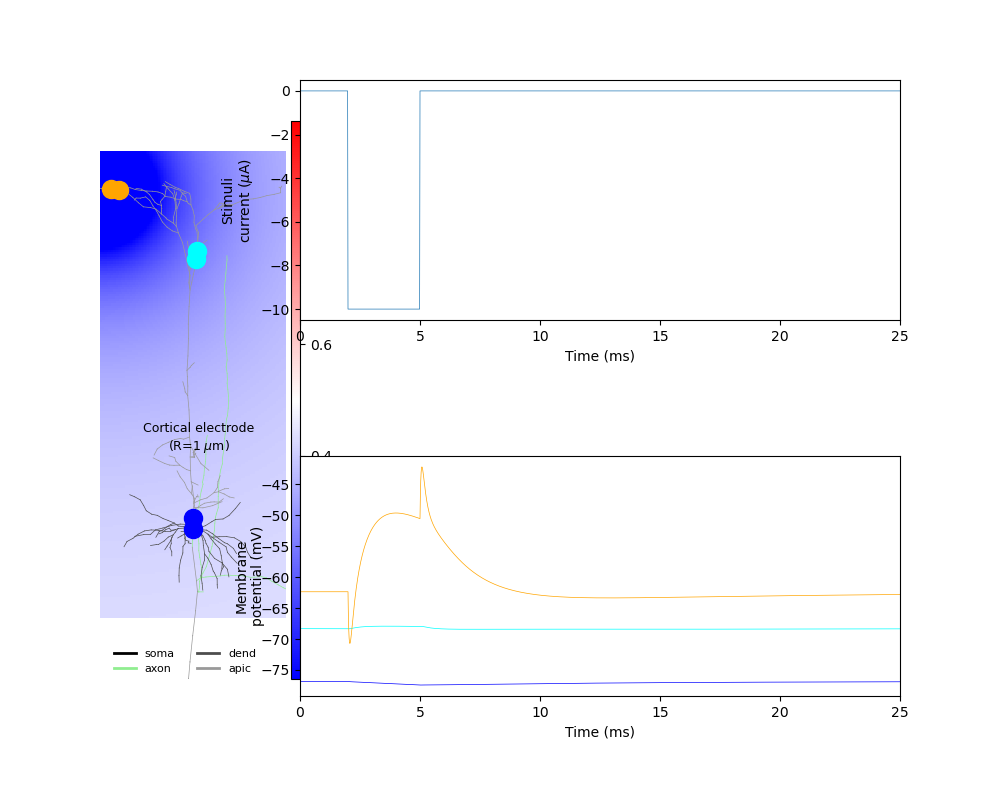
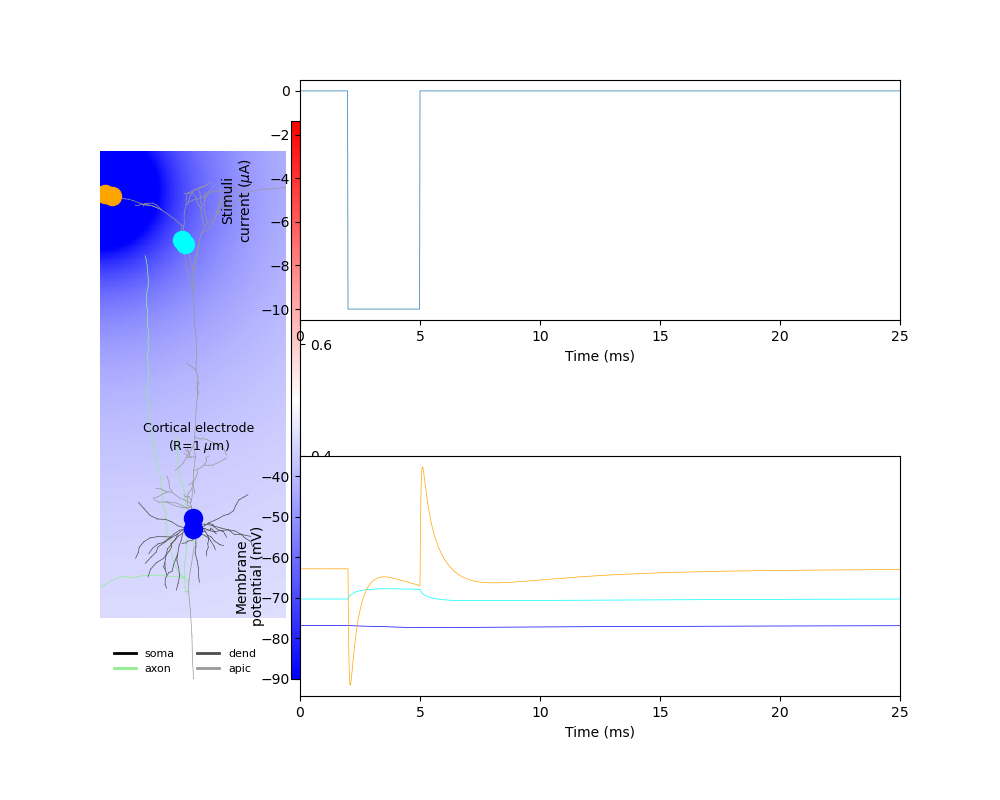
Fixed if test for elec_positions and some code cleanup

diff --git a/main.py b/main.py
@@ -139,7 +139,7 @@ class ExternalPotentialSim:
         """
 
         # Automatically setting electrode at a given distance from the measurement points
-        if not elec_positions:
+        if elec_positions.size == 0:
 
             mp = self.measure_pnts[0]
             elec_positions = np.array([int(cell.x[mp].mean()) - 50, int(cell.y[mp].mean()),
@@ -223,6 +223,10 @@ class ExternalPotentialSim:
         pass
 
     def run_ext_sim(self, cell_models_folder, elec_params, current_amps,  com_coords, stop_time, elec_positions=np.array([]), passive=False):
+        """
+        Move cell inside loops of amplitude and postion
+        """
+
         cell_rot = [-3, 6]
         self.cells = []
         for z in cell_rot:
@@ -230,7 +234,6 @@ class ExternalPotentialSim:
             cell = self.return_cell(cell_models_folder, z, passive)
             self.create_measure_points(cell, com_coords)
             elec_positions = self.set_electrode_pos(cell, elec_positions)
-            print('elec_positions', elec_positions)
             elec_dists = np.zeros((len(elec_positions), com_coords.shape[0]))
             ss_pot = np.zeros(len(elec_positions))
             dV = np.zeros(len(elec_positions))
@@ -254,13 +257,9 @@ class ExternalPotentialSim:
             self.plot_steady_state(elec_dists[:, 0], ss_pot)
             self.plot_dV(elec_dists[:, 0], dV)
             self.create_measure_points(cell, com_coords)
-            self.cells.append(cell)
+            # self.cells.append(cell)
             cell.strip_hoc_objects()
             cell.__del__()
-
-        # Freeing up some variables
-        # I = None
-        # pos = None
 
     def run_current_sim(self, cell_models_folder, elec_params, current_amps, positions, stop_time, passive=False):
         self.return_cell(cell_models_folder)
@@ -275,6 +274,14 @@ class ExternalPotentialSim:
         self.extracellular_stimuli(elec_params)
         self.run_cell_simulation()
         self.plot_currents()
+
+    def export_data(self):
+        """
+        Export data to text file:
+        - compartments measured and their coordinates
+        - array of current and membrane potential
+        """
+        pass
 
     def plot_morphology(self, cell):
 

diff --git a/hallermann_single_source_pulse.py b/hallermann_single_source_pulse.py
@@ -23,22 +23,16 @@ elec_positions = np.array([np.array([-50, 0, -200], dtype=float),
                            np.array([-301, 39, 879], dtype=float)])
 
 
-# elec_positions = [np.array([[50, 0, -200], ], dtype=float),
-#                   np.array([[111, 131, 652], ], dtype=float),
-#                   np.array([[-242, 7, 929], ], dtype=float),
-#                   np.array([[-200, 0, 0], ], dtype=float),
-#                   np.array([[50, 40, 120], ], dtype=float)]
-
 current_amps = [1e4, -1e4]
-# elec_positions = [np.array([[-242, 7, 929], ], dtype=float)]
 
 # measure_coordinates = np.array([[0, 0, -200], [130, 131, 652],
 #                                 [-242, 43, 929]])
 
 measure_coordinates = np.array(
     [[-0, 0, - 200], [10, 126, 659], [-251, 39, 879]])
+
+
 start = time.time()
-# monophasic_pulse_params['stop_time'] = 20
 extPotSim.run_ext_sim(cell_models_folder, monophasic_pulse_params,
                       current_amps, measure_coordinates, 20)
 end = time.time()

diff --git a/double_hallermann_moving_single_source_pulse.py b/double_hallermann_moving_single_source_pulse.py
@@ -23,12 +23,6 @@ elec_positions = np.array([np.array([50, 0, -200], dtype=float),
                            np.array([-200, 0, 0], dtype=float)])
 
 
-# elec_positions = [np.array([[50, 0, -200], ], dtype=float),
-#                   np.array([[111, 131, 652], ], dtype=float),
-#                   np.array([[-242, 7, 929], ], dtype=float),
-#                   np.array([[-200, 0, 0], ], dtype=float),
-#                   np.array([[50, 40, 120], ], dtype=float)]
-
 current_amps = [1e4, -1e4]
 # elec_positions = [np.array([[-242, 7, 929], ], dtype=float)]
 
